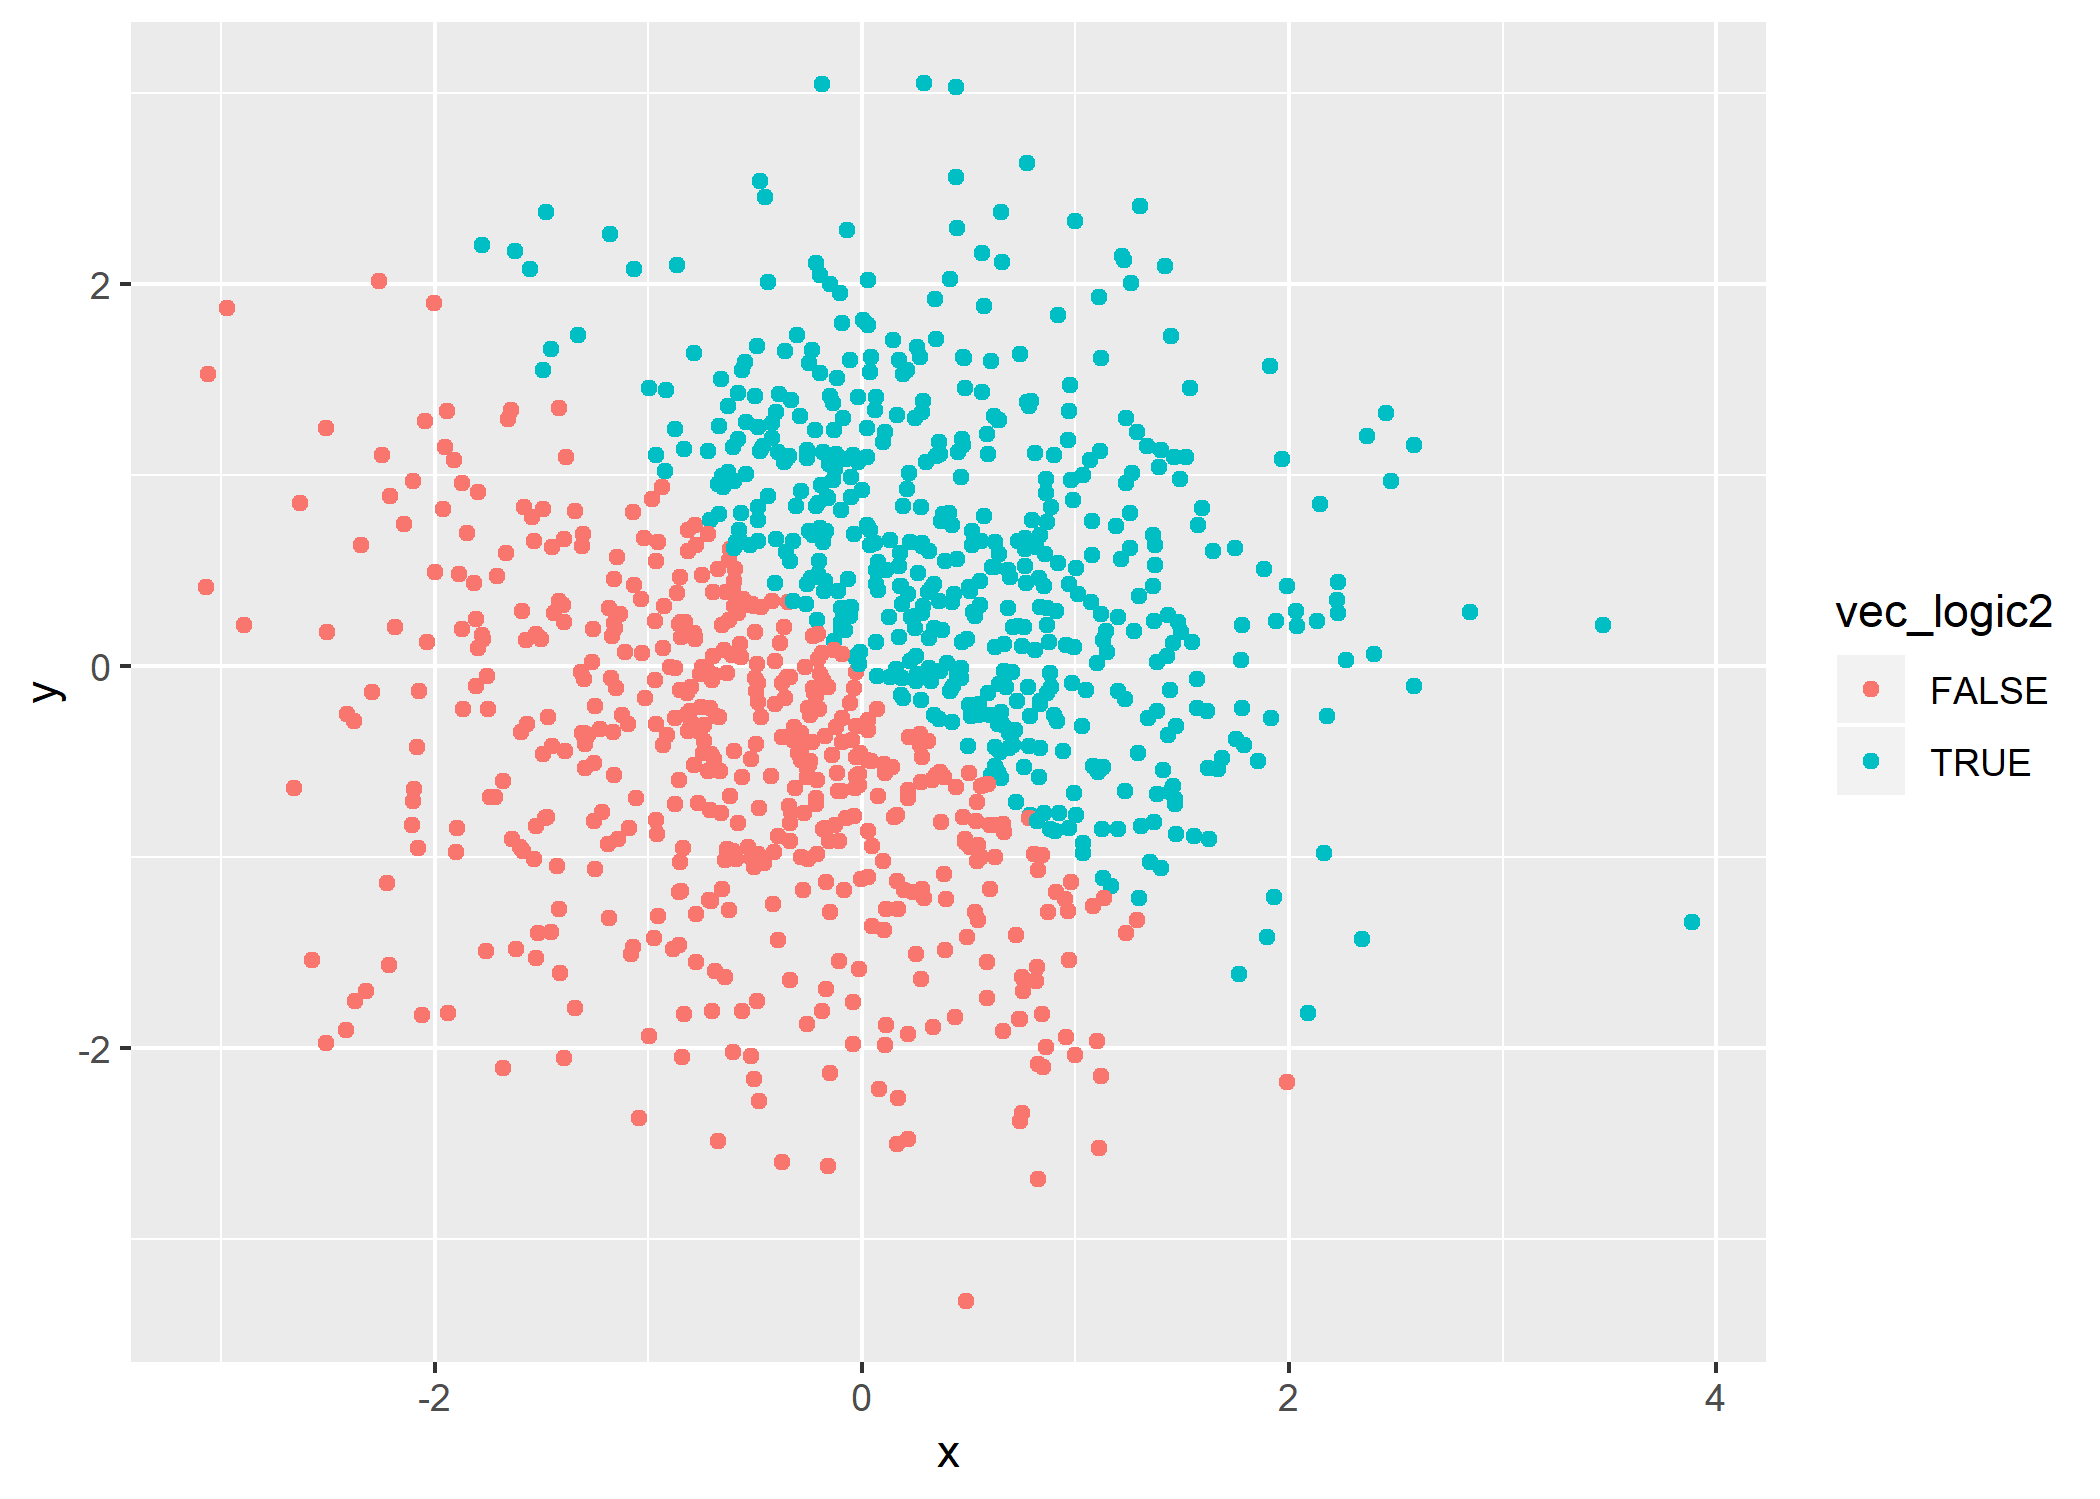
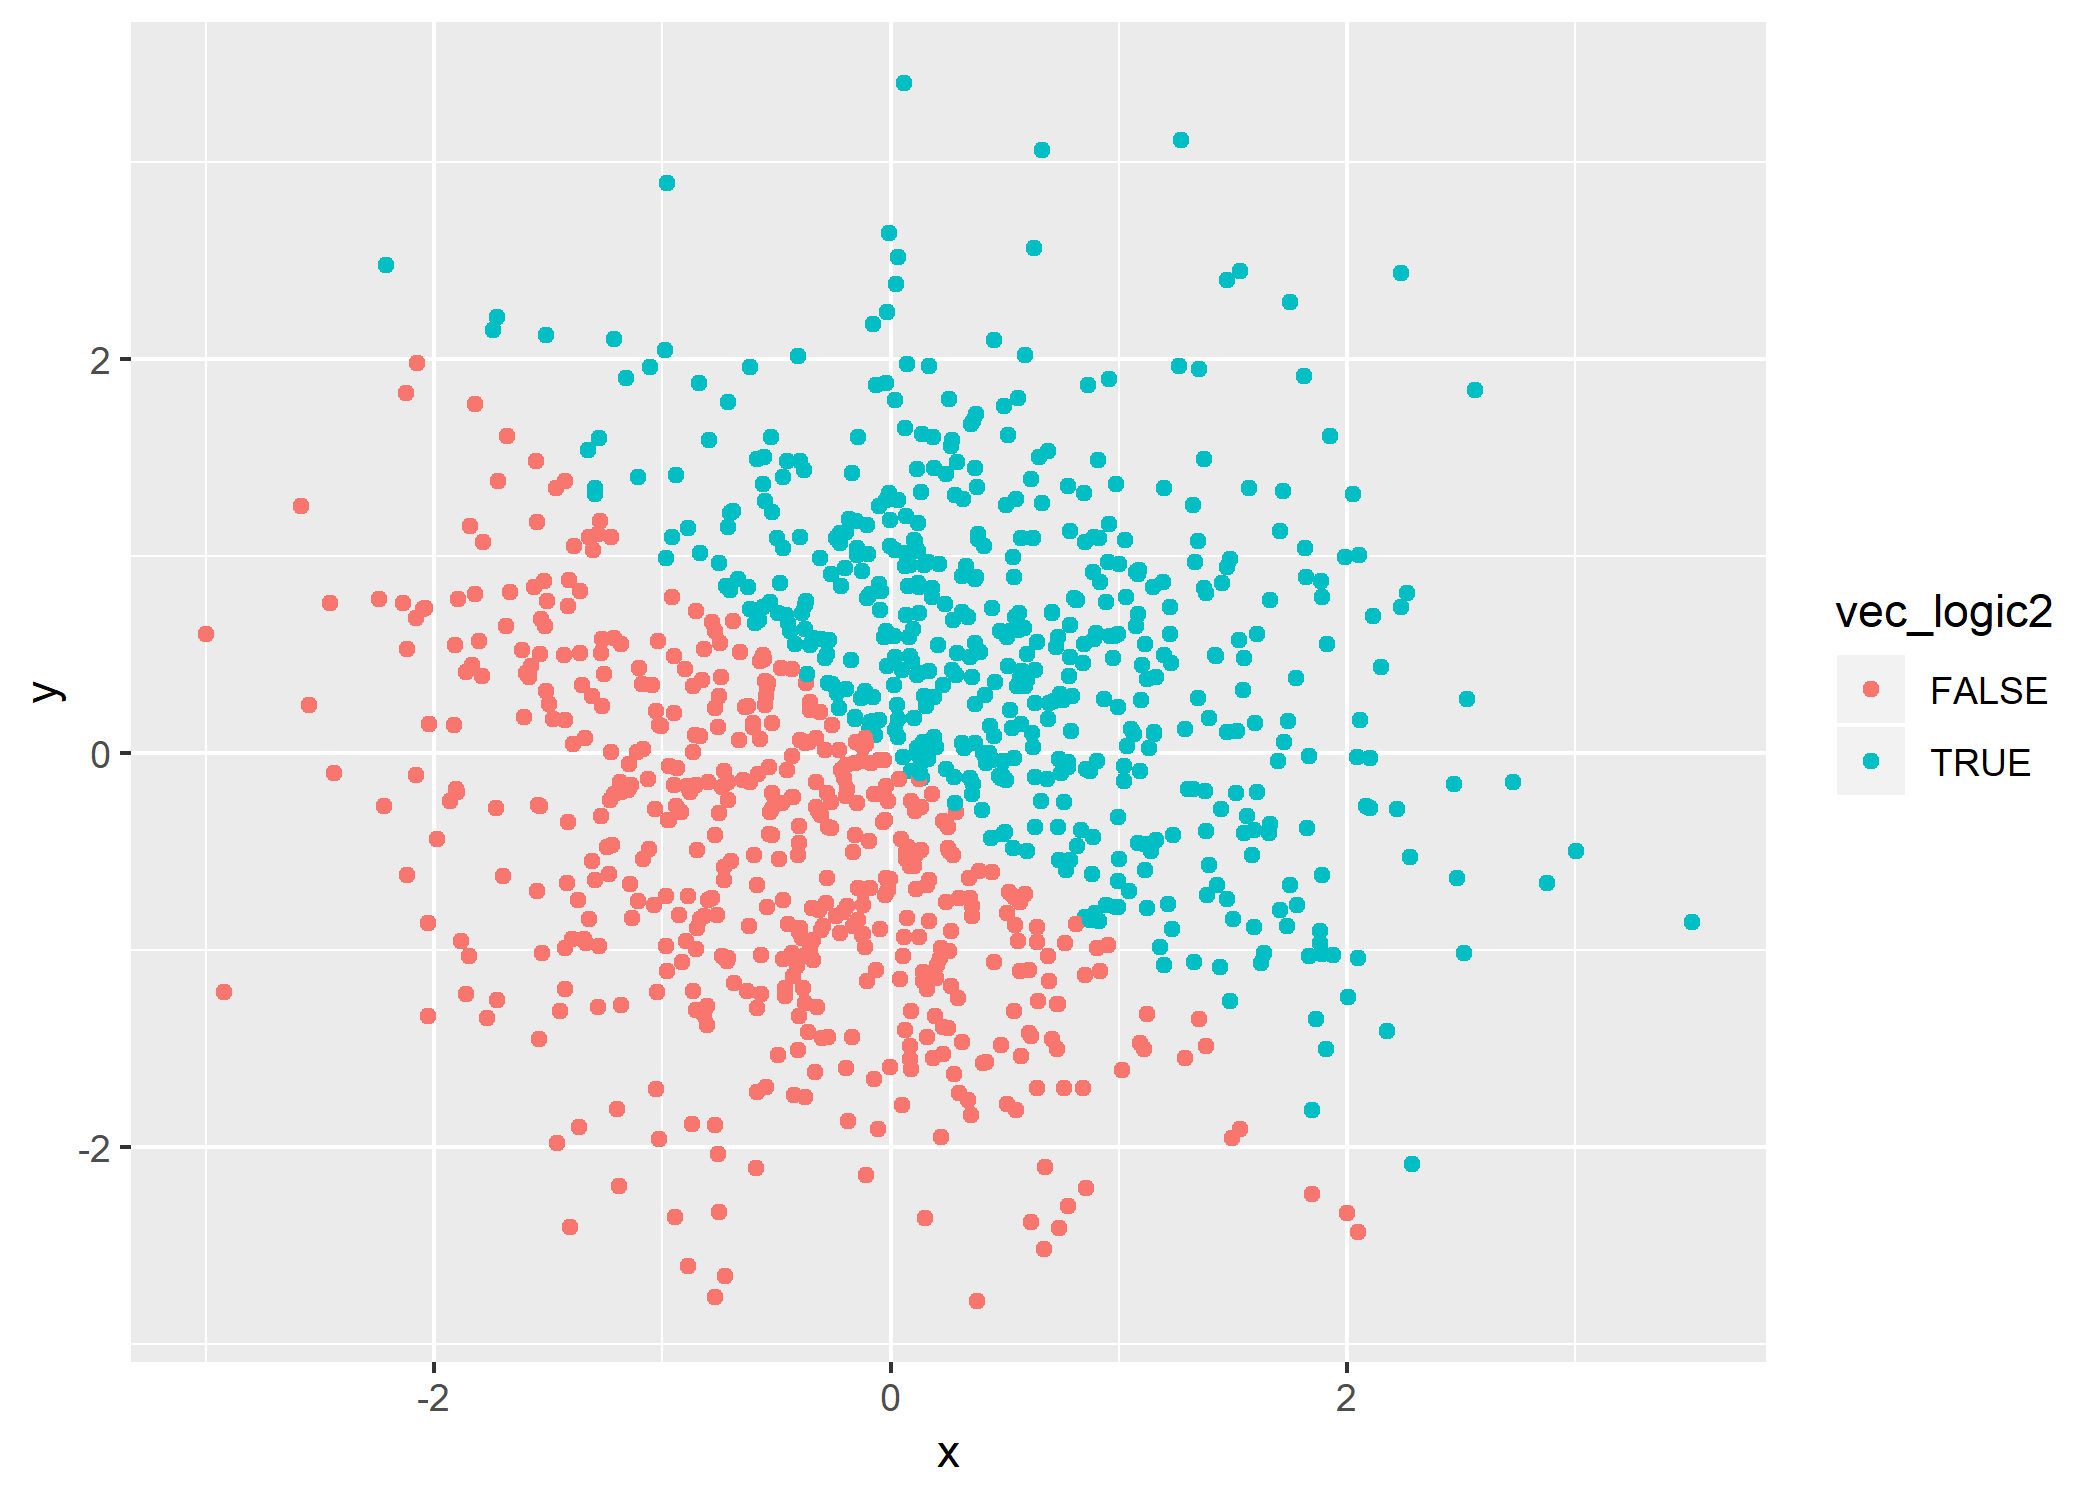
Writing out a commentary on the appearance of the three scatterplots and their colors.

diff --git a/p8105_hw1_baw2160.md b/p8105_hw1_baw2160.md
@@ -32,13 +32,13 @@ Attempting to take the mean of each variable in my date frame:
 mean(prob1_df[["unif_samp"]])
 ```
 
-    ## [1] 2.713115
+    ## [1] 1.949647
 
 ``` r
 mean(prob1_df[["vec_logic"]])
 ```
 
-    ## [1] 0.6
+    ## [1] 0.5
 
 ``` r
 mean(prob1_df[["vec_char"]])
@@ -120,11 +120,11 @@ Describing the problem 2 dataframe:
 
 The size of prob2\_df is 1000, 5
 
-The mean of x is -0.0385676
+The mean of x is 0.0303595
 
-The median of x is -0.0381374
+The median of x is 0.0474518
 
-The proportion of cases for which the logical vector is TRUE is 0.504
+The proportion of cases for which the logical vector is TRUE is 0.512
 
 Making a scatterplot:
 ---------------------
@@ -153,4 +153,6 @@ ggplot(prob2_df, aes(x = x, y = y, color = vec_factor2)) + geom_point()
 
 ![](p8105_hw1_baw2160_files/figure-markdown_github/Making_scatterplots-3.png)
 
-Commenting on the color scales...
+It appears as if the color scale for the first scatterplot (using the logical vector) is the same as the color for the third scatterplot (using the factor vector). They are colored based on a binary labeling pattern, and the pattern appears exactly the same. This makes sense to me, because they both represent the same vector (the factor vector is created from the logical vector once the logical vector has been converted into numerical values). The information presented in each vector is the same binary info. The difference is that in one the categories are named TRUE and FALSE, and in the other they are named 1 and 0.
+
+The color scale for the second scatterplot (using the numeric vector) is a little different. In this one, the color can be anywhere along a gradient from dark to light, where the darkest point on the scale represents 0 and the lightest represents 1. In practice, however, the coloring pattern seems the same as the other two plots. Again, the data represented in the numeric vector is the same binary data represented in the logical and factor vector. So, there aren't any points that don't belong to either the darkest or lightest point in the scale, and the position of either one category versus the other is the same.
